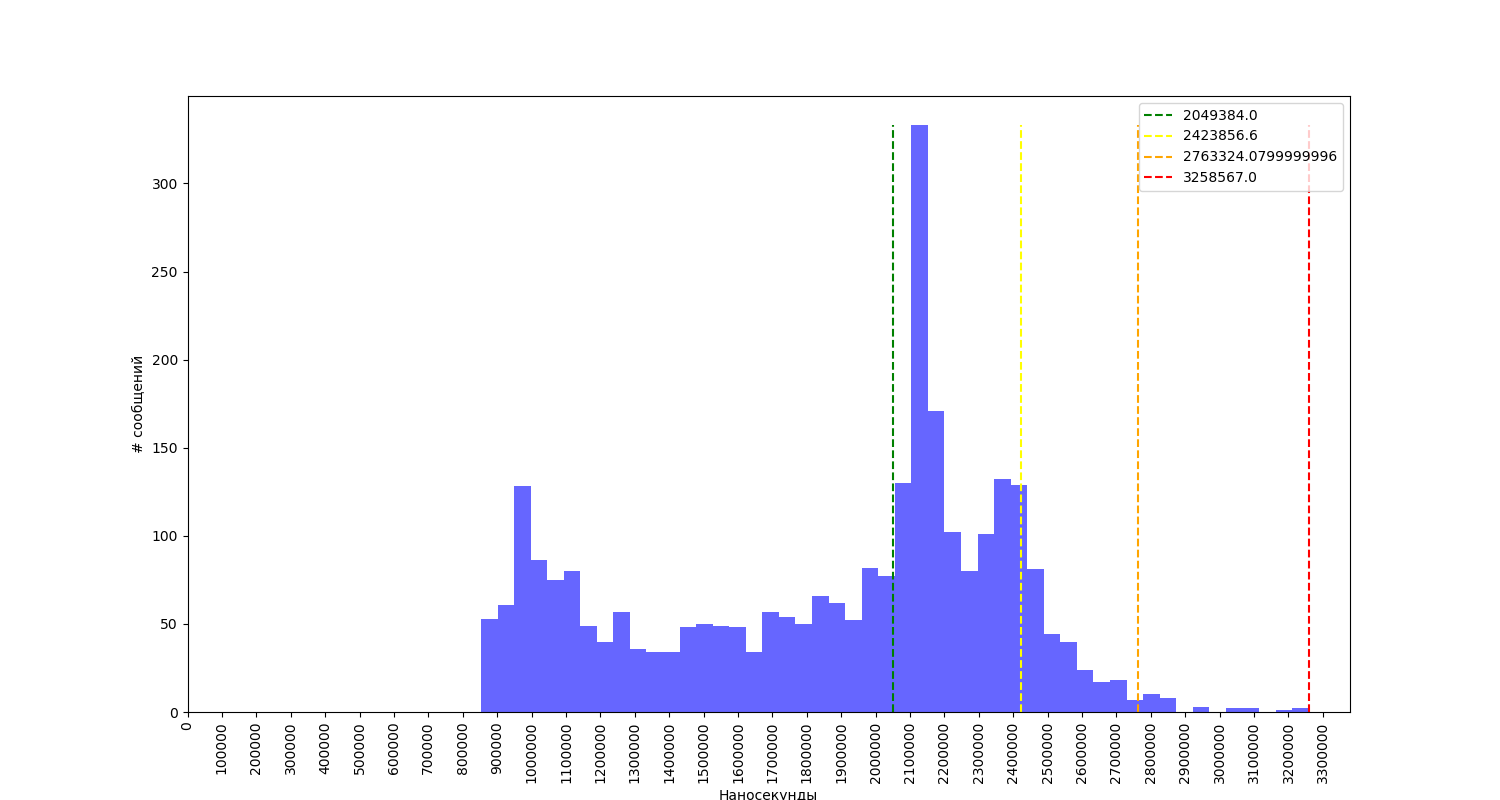
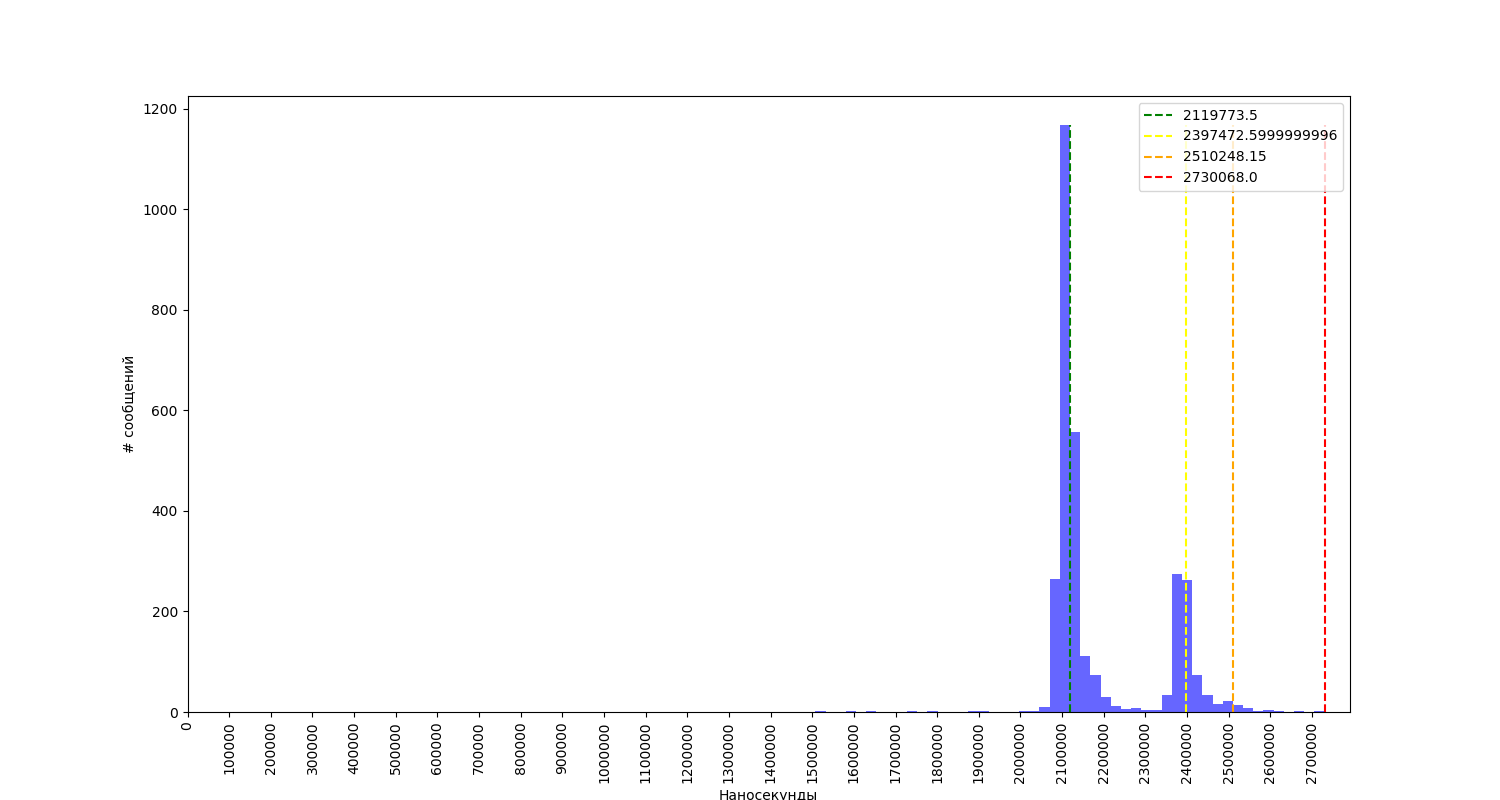
Continued works on Readme.md

diff --git a/relay.c b/relay.c
@@ -230,25 +230,33 @@ endsched:
 				bzero(buf, MSGLEN);
 			}
 
+
 			FD_ZERO(&fds);
 			FD_SET(si, &fds);
 			for (int cur_len = 0; cur_len < MSGLEN; cur_len += recval>0?recval:0)
 			{
+#if NOBLOCK == 1
 				ps_ret = pselect(si+1, &fds, NULL, NULL, NULL, NULL);
 				if (ps_ret > 0) {
 					if (FD_ISSET(si, &fds)) {
+#endif
 						recval = recv(si, (void*)buf+cur_len, MSGLEN, 0);
 						if (recval == -1 && errno != EWOULDBLOCK && errno != EAGAIN) {
 							perror("recv()");
+							fprintf(stderr, "[%d] cur_len: %d\n", in_port, cur_len);
 							break;
 						} else if (recval == 0) {
-							perror("recv()[closed]:");
+							break;
 						}
+#if NOBLOCK == 1
 					}
 				} else break;
+#endif
 			}
 			if (recval == 0) {
 				fprintf(stderr, "si closed\n");
+				break;
+			} else if (recval == -1) {
 				break;
 			}
 		}
@@ -345,11 +353,13 @@ int create_output_sock(struct sockaddr_in *ao, uint16_t port) {
 	}
 #endif
 
-//	if (setsockopt(ret, SOL_SOCKET, SO_INCOMING_CPU, &(int){1}, sizeof(int)) == -1) {
-//		perror("setsockopt(... , SO_INCOMING_CPU, ...)");
-//		close(ret);
-//		return -1;
-//	}
+// #ifdef SCHEDCPU
+// 	if (setsockopt(ret, SOL_SOCKET, SO_INCOMING_CPU, &(int){1}, sizeof(int)) == -1) {
+// 		perror("setsockopt(... , SO_INCOMING_CPU, ...)");
+// 		close(ret);
+// 		return -1;
+// 	}
+// #endif
 
 	if (bind(ret, (struct sockaddr *)ao, sizeof(struct sockaddr_in)) == -1) {
 		perror("bind()");
@@ -396,11 +406,13 @@ int create_input_sock(struct sockaddr_in *ao, uint16_t port) {
 	}
 #endif
 
-//	if (setsockopt(ret, SOL_SOCKET, SO_INCOMING_CPU, &(int){1}, sizeof(int)) == -1) {
-//		perror("setsockopt(... , SO_INCOMING_CPU, ...)");
-//		close(ret);
-//		return -1;
-//	}
+#ifdef SCHEDCPU
+	if (setsockopt(ret, SOL_SOCKET, SO_INCOMING_CPU, &(int){1}, sizeof(int)) == -1) {
+		perror("setsockopt(... , SO_INCOMING_CPU, ...)");
+		close(ret);
+		return -1;
+	}
+#endif
 
 	if (connect(ret, (struct sockaddr *)ao, sizeof(struct sockaddr_in)) == -1) {
 		perror("connect()");

diff --git a/plot.py b/plot.py
@@ -19,6 +19,7 @@ with open(sys.argv[1]) as csvfile:
 
 nb = 50
 x = np.asarray(x[100:len(x)-1], dtype='int')
+#x = np.asarray(x, dtype='int')
 
 p = np.array([50.0, 90.0, 99.0, 100.0])
 perc = np.percentile(x, q=p)
@@ -36,3 +37,4 @@ plt.vlines(perc[2], ymin=0, ymax=max(n), linestyles='dashed', color='orange', la
 plt.vlines(perc[3], ymin=0, ymax=max(n), linestyles='dashed', color='red', label=perc[3])
 plt.legend()
 plt.savefig(sys.argv[2])
+print('perc[\'99\']: ' + str(perc[2]))

diff --git a/Readme.md b/Readme.md
@@ -85,16 +85,82 @@ make plot MSGLEN=1048576 FREQ=1000
 ![f=1000 size=1MB](images/plot_s1M_f1e3.png)
 
 
-99й перцентиль начинает уменьшаться.
-Почему так происходит, обсудим позже.
-А пока попробуем увеличить частоту ещё раз.
+Никакой разницы.
+Попробуем увеличить частоту ещё раз.
 
 ```
 make plot MSGLEN=1048576 FREQ=10000
 ```
 ![f=10000 size=1MB](images/plot_s1M_f1e4.png)
 
-Итак, результат увеличился в 13 раз.
+Итак, результат увеличился в 14 раз.
+Попробуем это оптимизировать.
+На гистограмме видно, что она довольно сильно растянута.
+И можно предположить, что это связанно с тем, что система не успевает это всё вычитывать вовремя.
+Чтобы помочь приложению, сменим политику для шедулера на [SCHED_FIFO](https://lwn.net/Articles/296419/).
+Это можно сделать при помощи утилиты `chrt`.
+Которую можно использовать при помощи агрумента при сборке `SCHEDFIFO`.
+Пробуем:
+```
+make plot MSGLEN=1048576 FREQ=10000 SCHEDFIFO=1
+```
+
+![f=10000 size=1MB schedfifo](images/plot_schedfifo_s1M_f1e4.png)
+
+Результат улучшился в 3 раза.
+Т.е. как одно из решений проблемы имеем смену политики шедулера.
+
+Можно ещё увеличить стабильность всего этого, выделив себе отдельные CPU в системе.
+Для этого есть аргумент `SCHEDCPU`. Который лучше всего исользовать в паре с параметром ядра `isolcpus`.
+
+Сначала, надо подредактировать `cmdline` загрузчика и вписать туда, например: `isolcpus=3,4`.
+Потом запустим наше приложение на этих ядрах:
+```
+make plot MSGLEN=1048576 SCHEDFIFO=1 SCHEDCPU=3,4
+```
+_Примечание: поскольку приложение тестовое и сырое, оно ведёт себя нестабильно на некоторых системах при отправке больших пакетов на высокой частоте. Поэтому ниже используется f=100._
+
+![f=100 size=1MB schedfifo schedcpu](images/plot_schedfifo_schedcpu_s1M_f1e2.png)
+
+Получили очень хороший результат.
+
+
+### Nagle's algorithm
+А что если попытаться отключить ожидание мелких пакетов?
+
+```
+make plot NODELAY=1
+```
+
+![f=100 size=1KB nodelay](images/plot_nodelay_f1e2.png)
+
+Разница небольшая, по сравнению с тем же кейсом в самом начале.
+
+А что если частоту поднять повыше?
+```
+make plot NODELAY=1 FREQ=1000000000
+```
+![f=1000000000 size=1KB nodelay](images/plot_nodelay_f1e9.png)
+
+А вот тут уже наблюдаем странное.
+Частоту увеличили, но при этом показатели стали лучше.
+
+Всё дело в том, что приложению изначально приходится часто переключать контекст между пользовательским и пространством ядра для проверки буферов.
+И на высокой частоте - это делать приходится гораздо реже.
+Из-за чего и получаем подобный эффект.
+
+<!--Чтобы продемонстрировать что это работает, возьмём пакеты ещё меньше.
+```
+make plot NODELAY MSGLEN=32
+```
+![f=100 size=32 nodelay](images/plot_nodelay_s32_f1e2.png)
+
+```
+make plot NODELAY MSGLEN=32 FREQ=1000000000
+```
+![f=1000000000 size=32 nodelay](images/plot_nodelay_s32_f1e9.png)
+-->
+
 
 ## Оптимизации
 
@@ -105,10 +171,14 @@ make plot MSGLEN=1048576 FREQ=10000
 И использовать `select` или `poll`
 Тем самым можно будет не ждать пока ядро обработает сообщение в RX-канале и пока не переведёт приложение из IOWAIT в RUNNING.
 
+Можно переключать при помощи параметра `NOBLOCK`
+
 
 ### TCP_NODELAY
 По умолчанию, TCP-сокеты в Linux работают так, что копят маленькие пакеты и ждут, чтобы отослать их всех сразу. ([Nagle's algorithm](https://en.wikipedia.org/wiki/Nagle%27s_algorithm)).
 Поскольку мы хотим быстрых ответов, то надо это отключать. Так пакеты будут отправляться быстрее.
+
+Можно переключать при помощи параметра `NODELAY`
 
 
 ### SO_INCOMING_CPU
@@ -116,22 +186,34 @@ make plot MSGLEN=1048576 FREQ=10000
 Для обеспечения оптимального проявления NUMA (Non-Uniform Memory Access), можно выделить всем звеньям один CPU для RX-буфера.
 Чтобы обеспечить наиболее быстрый доступ к памяти и поддерживать кэши актуальными.
 
+Включается при помощи `setsockopt()`.
+В коде есть заготовка для реализации через параметр `SCHEDCPU`.
+Но недоделано на текущий момент и закоментированно.
+
 
 ### sched_setaffinity
 Если общая нагрузка на систему высока, можно указать отдельные CPU для работы потоков приложений через sched_setaffinity(2).
 Это отлично работает в паре с опцией ядра `isopcus`. Так можно отделить общую нагрузку системы от приложения.
+
+Опцию ядра можно включить через тот же GRUB.
+А выбор CPU в приложении осуществлять при помощи `SCHEDCPU`, указывая ядра через запятую.
 
 
 ### Scheduler
 Можно так же попросить при запуске планировщик обрабатывать наше приложение по методу реалтаймового ([SCHED_FIFO](https://lwn.net/Articles/296419/)).
 В таком случае, наше приложение будет работать до тех пор, пока не решит освободить процессорное время для других задач.
 Для этого можно воспользоваться приложением `chrt`.
+
+Сейчас можно включить при помощи аргумента `SCHEDFIFO`.
+Достаточно его определить, чтобы он был.
+Например:
 ```
-chrt -r 90
+make plot SCHEDFIFO=1
 ```
+Но надо учитывать, что для запуска приложения `chrt` требуются права пользователя `root`.
 
 
-### TCP и sysctl
+<!--### TCP и sysctl
 ```
 sysctl net.ipv4.tcp_sack=0
 ```
@@ -147,5 +229,5 @@ sysctl net.ipv4.tcp_rmem=VALUE VALUE VALUE
 sysctl net.ipv4.tcp_wmem=VALUE VALUE VALUE
 sysctl net.ipv4.tcp_mem=VALUE VALUE VALUE
 
-```
+```-->
 ## Комментарии
